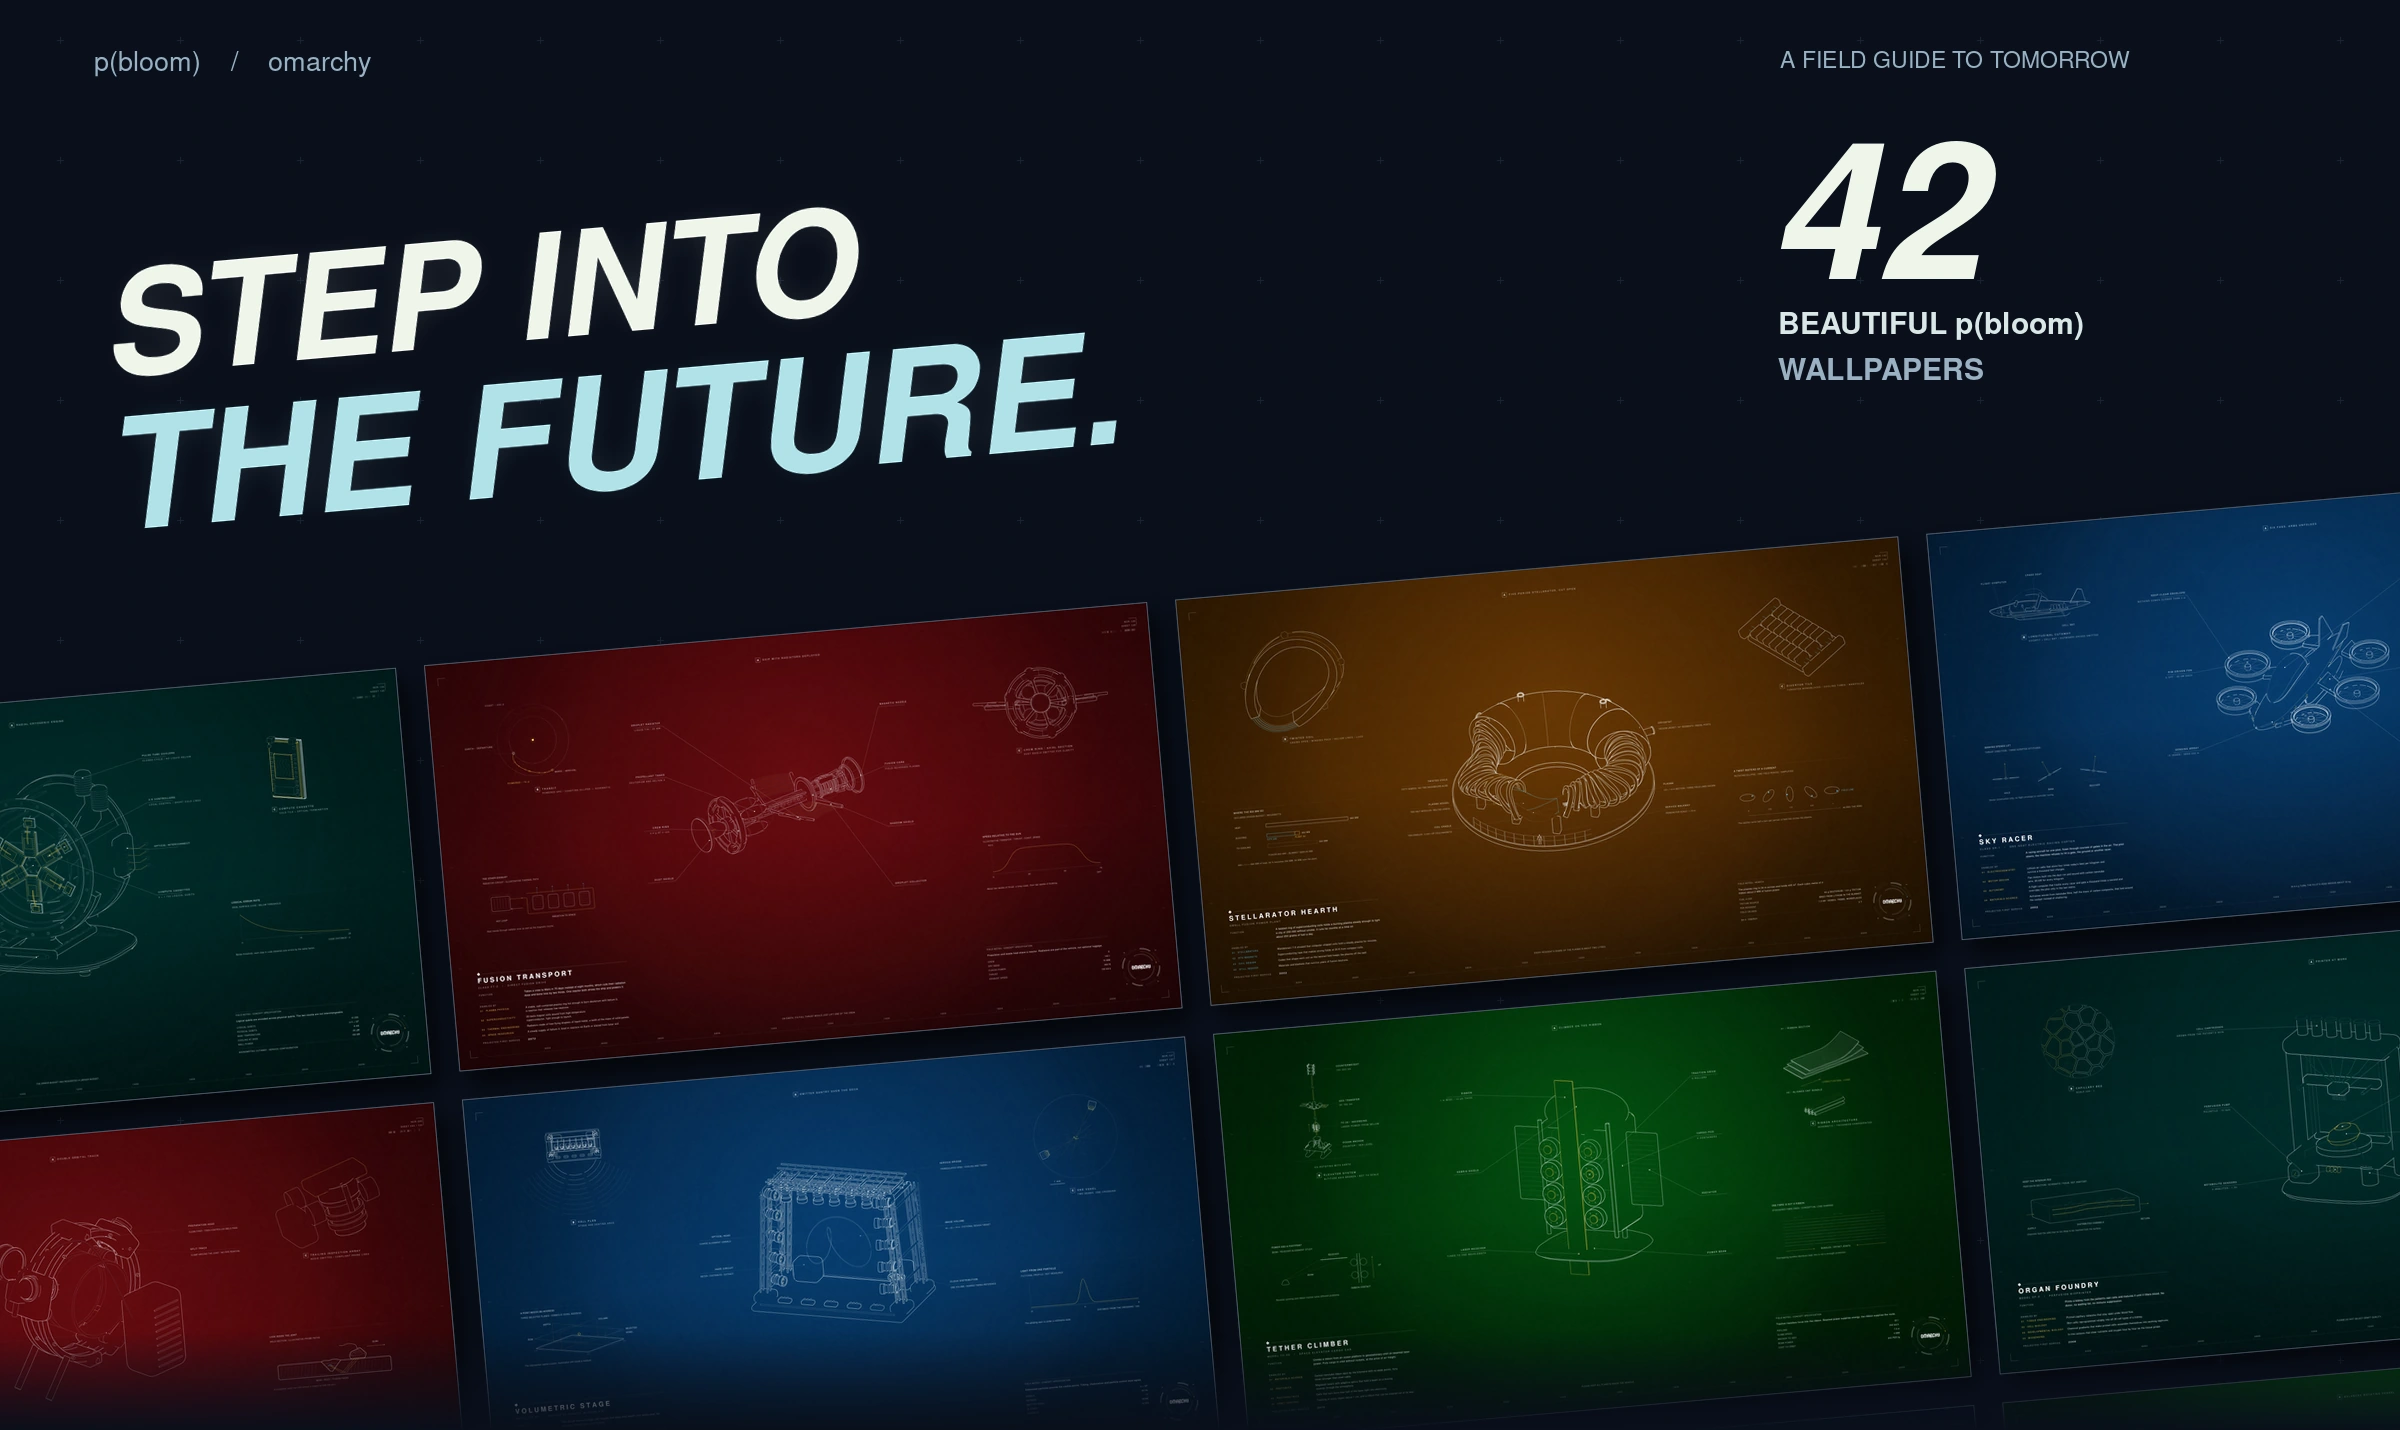
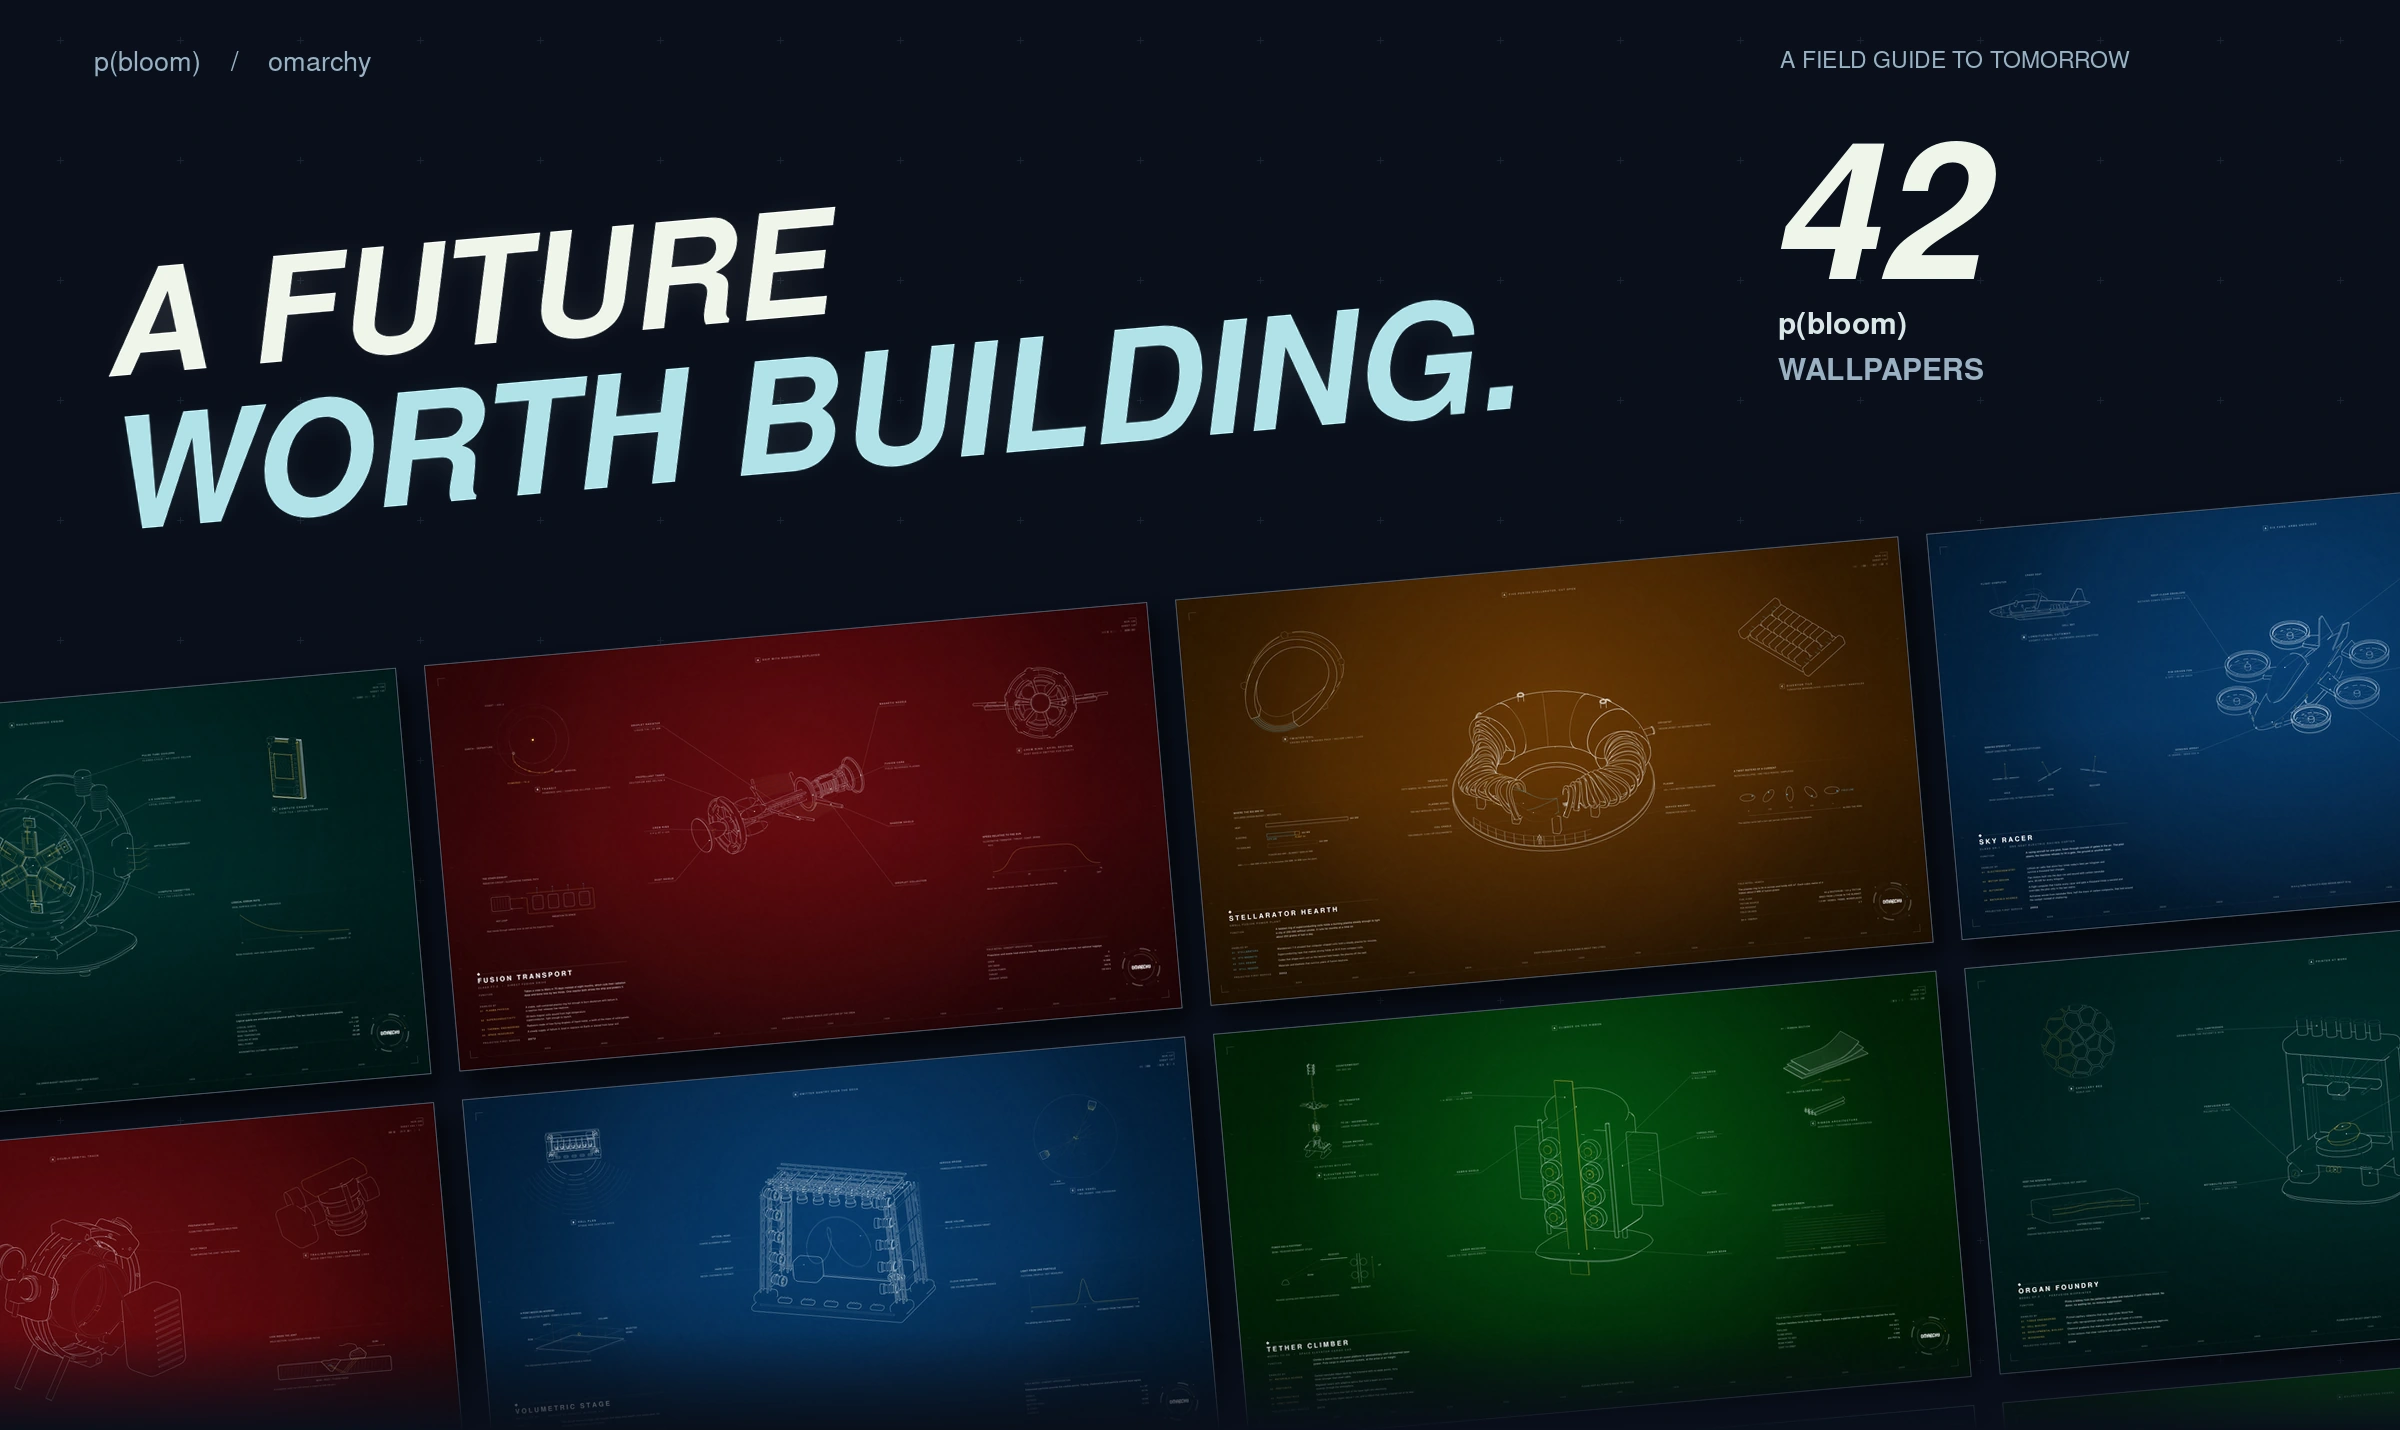
README collage: "A future worth building." and 42 p(bloom) wallpapers, without the hype
Claude-Session: https://claude.ai/code/session_01MgACV8Xkkc1tXD2fXTE1R9

Changed region(s): [[0.0312, 0.1231, 0.625, 0.3692], [0.75, 0.2154, 0.875, 0.2462]]

diff --git a/tools/make_readme_collage.py b/tools/make_readme_collage.py
@@ -46,8 +46,8 @@ canvas.alpha_composite(wall, (-360, 435))
 # Typography stays deterministic; only its light has a restrained bloom.
 headline = Image.new('RGBA', (1600, 355))
 hd = ImageDraw.Draw(headline)
-hd.text((10, 0), 'STEP INTO', font=font(145,'NimbusSans-BoldItalic.otf'), fill='#eff5ea')
-hd.text((0, 145), 'THE FUTURE.', font=font(155,'NimbusSans-BoldItalic.otf'), fill='#b1e2e8')
+hd.text((10, 0), 'A FUTURE', font=font(145,'NimbusSans-BoldItalic.otf'), fill='#eff5ea')
+hd.text((0, 145), 'WORTH BUILDING.', font=font(155,'NimbusSans-BoldItalic.otf'), fill='#b1e2e8')
 headline = headline.rotate(TILT_DEGREES, resample=Image.Resampling.BICUBIC, expand=True)
 glow = headline.filter(ImageFilter.GaussianBlur(15))
 glow.putalpha(glow.getchannel('A').point(lambda a: int(a*.20)))
@@ -56,7 +56,7 @@ canvas.alpha_composite(headline,(83,107))
 
 draw = ImageDraw.Draw(canvas)
 draw.text((1770, 107), '42', font=font(191,'NimbusSans-BoldItalic.otf'), fill='#eff5ea')
-draw.text((1778, 312), 'BEAUTIFUL p(bloom)', font=font(30,'NimbusSans-Bold.otf'), fill='#d9e7e7')
+draw.text((1778, 312), 'p(bloom)', font=font(30,'NimbusSans-Bold.otf'), fill='#d9e7e7')
 draw.text((1778, 358), 'WALLPAPERS', font=font(30,'NimbusSans-Bold.otf'), fill='#9bb1c3')
 # Footer darkens the cropped edge, leaving the invitation and images dominant.
 fade = Image.new('RGBA',(W,100))
